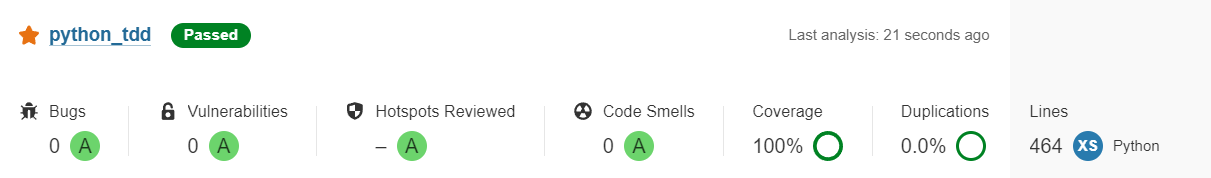
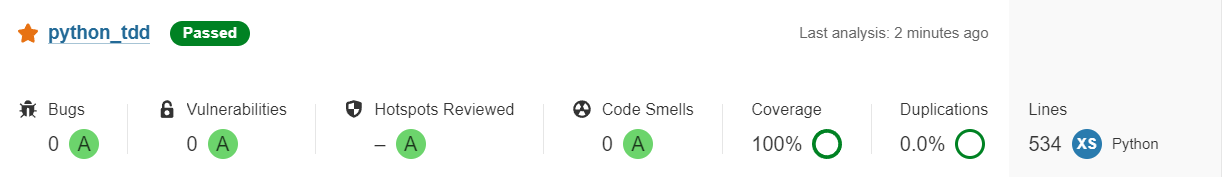
updated reports in README.md

diff --git a/README.md b/README.md
@@ -2,6 +2,27 @@
 
 <br>
 
+### Pytest Report
+
+```
+======================================== test session starts ========================================
+Python 3.12.1, pytest-7.4.4, pluggy-1.3.0
+plugins: cov-4.1.0
+collected 57 items
+
+core\services\sql_service\tests\test_mysql_service.py .......                                  [ 12%]
+core\services\sql_service\tests\test_sql_exception.py ..                                       [ 15%]
+core\services\sql_service\tests\test_sql_service.py ........                                   [ 29%]
+core\tests\test_dependency_injection.py .                                                      [ 31%]
+features\product\tests\test_product_crud_usecase.py .........                                  [ 47%]
+features\product\tests\test_product_model.py ..............                                    [ 71%]
+features\product\tests\test_product_serialization.py ................                          [100%]
+
+======================================== 57 passed in 0.27s =========================================
+```
+
+<br>
+
 ### Test Coverage Report
 
 ```
@@ -25,12 +46,12 @@ features\product\__init__.py                                0      0   100%
 features\product\models\__init__.py                         0      0   100%
 features\product\models\product.py                         26      0   100%
 features\product\tests\__init__.py                          0      0   100%
-features\product\tests\test_product_crud_usecase.py        17      0   100%
+features\product\tests\test_product_crud_usecase.py        60      0   100%
 features\product\tests\test_product_model.py               53      0   100%
 features\product\tests\test_product_serialization.py       85      0   100%
-features\product\usecases\product_crud_usecase.py           7      0   100%
+features\product\usecases\product_crud_usecase.py          11      0   100%
 ---------------------------------------------------------------------------
-TOTAL                                                     353      0   100%
+TOTAL                                                     400      0   100%
 ```
 
 <br>
